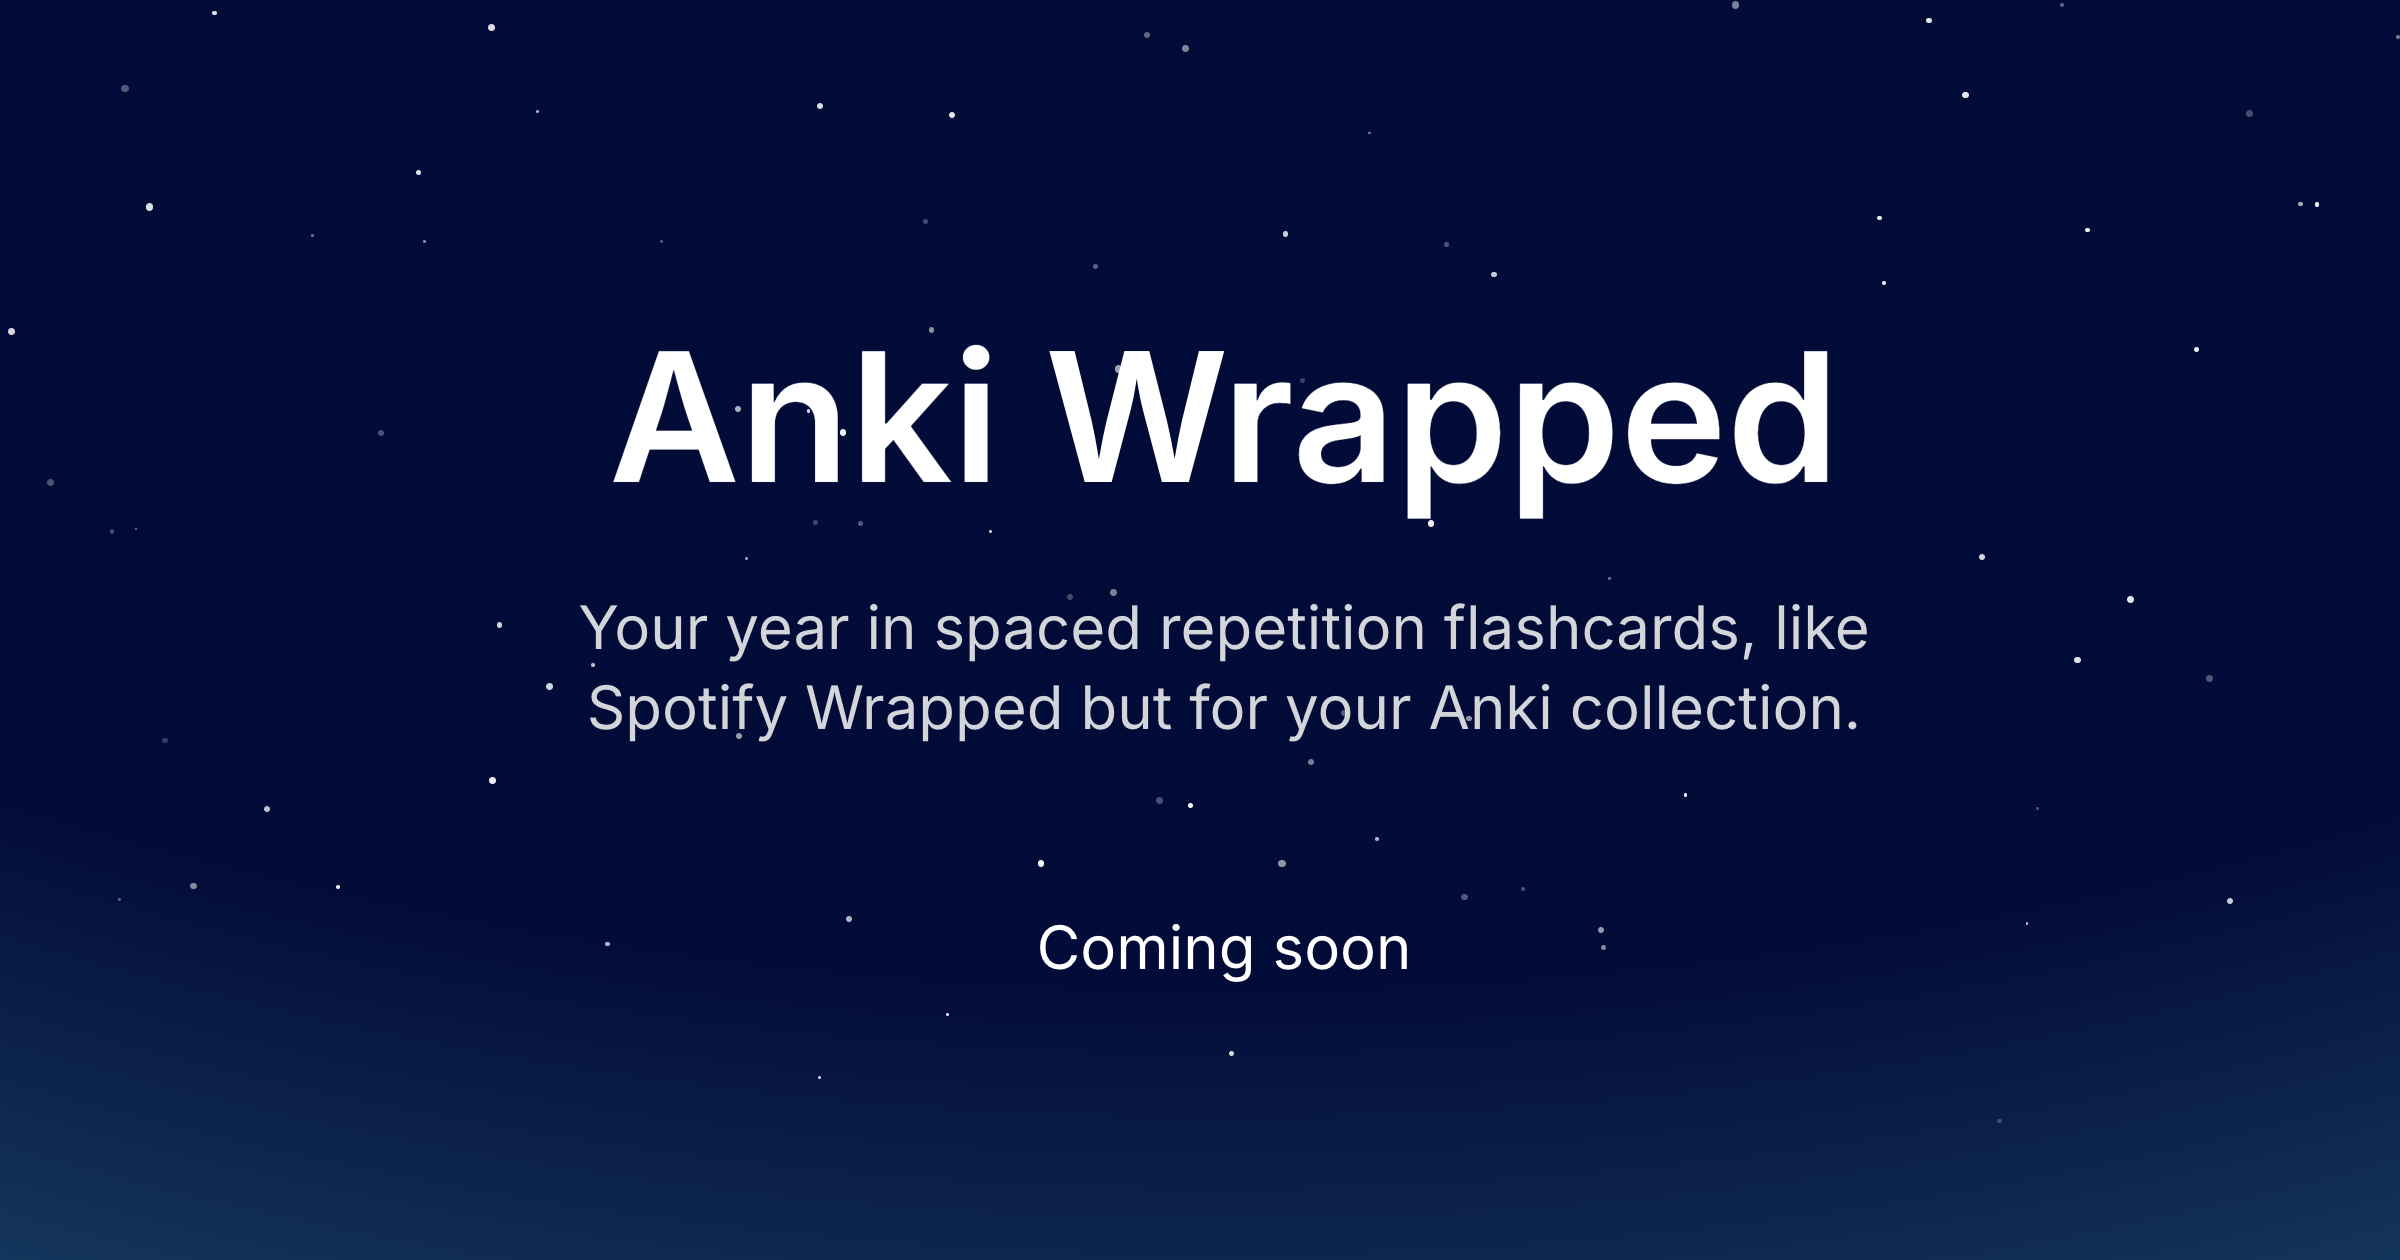
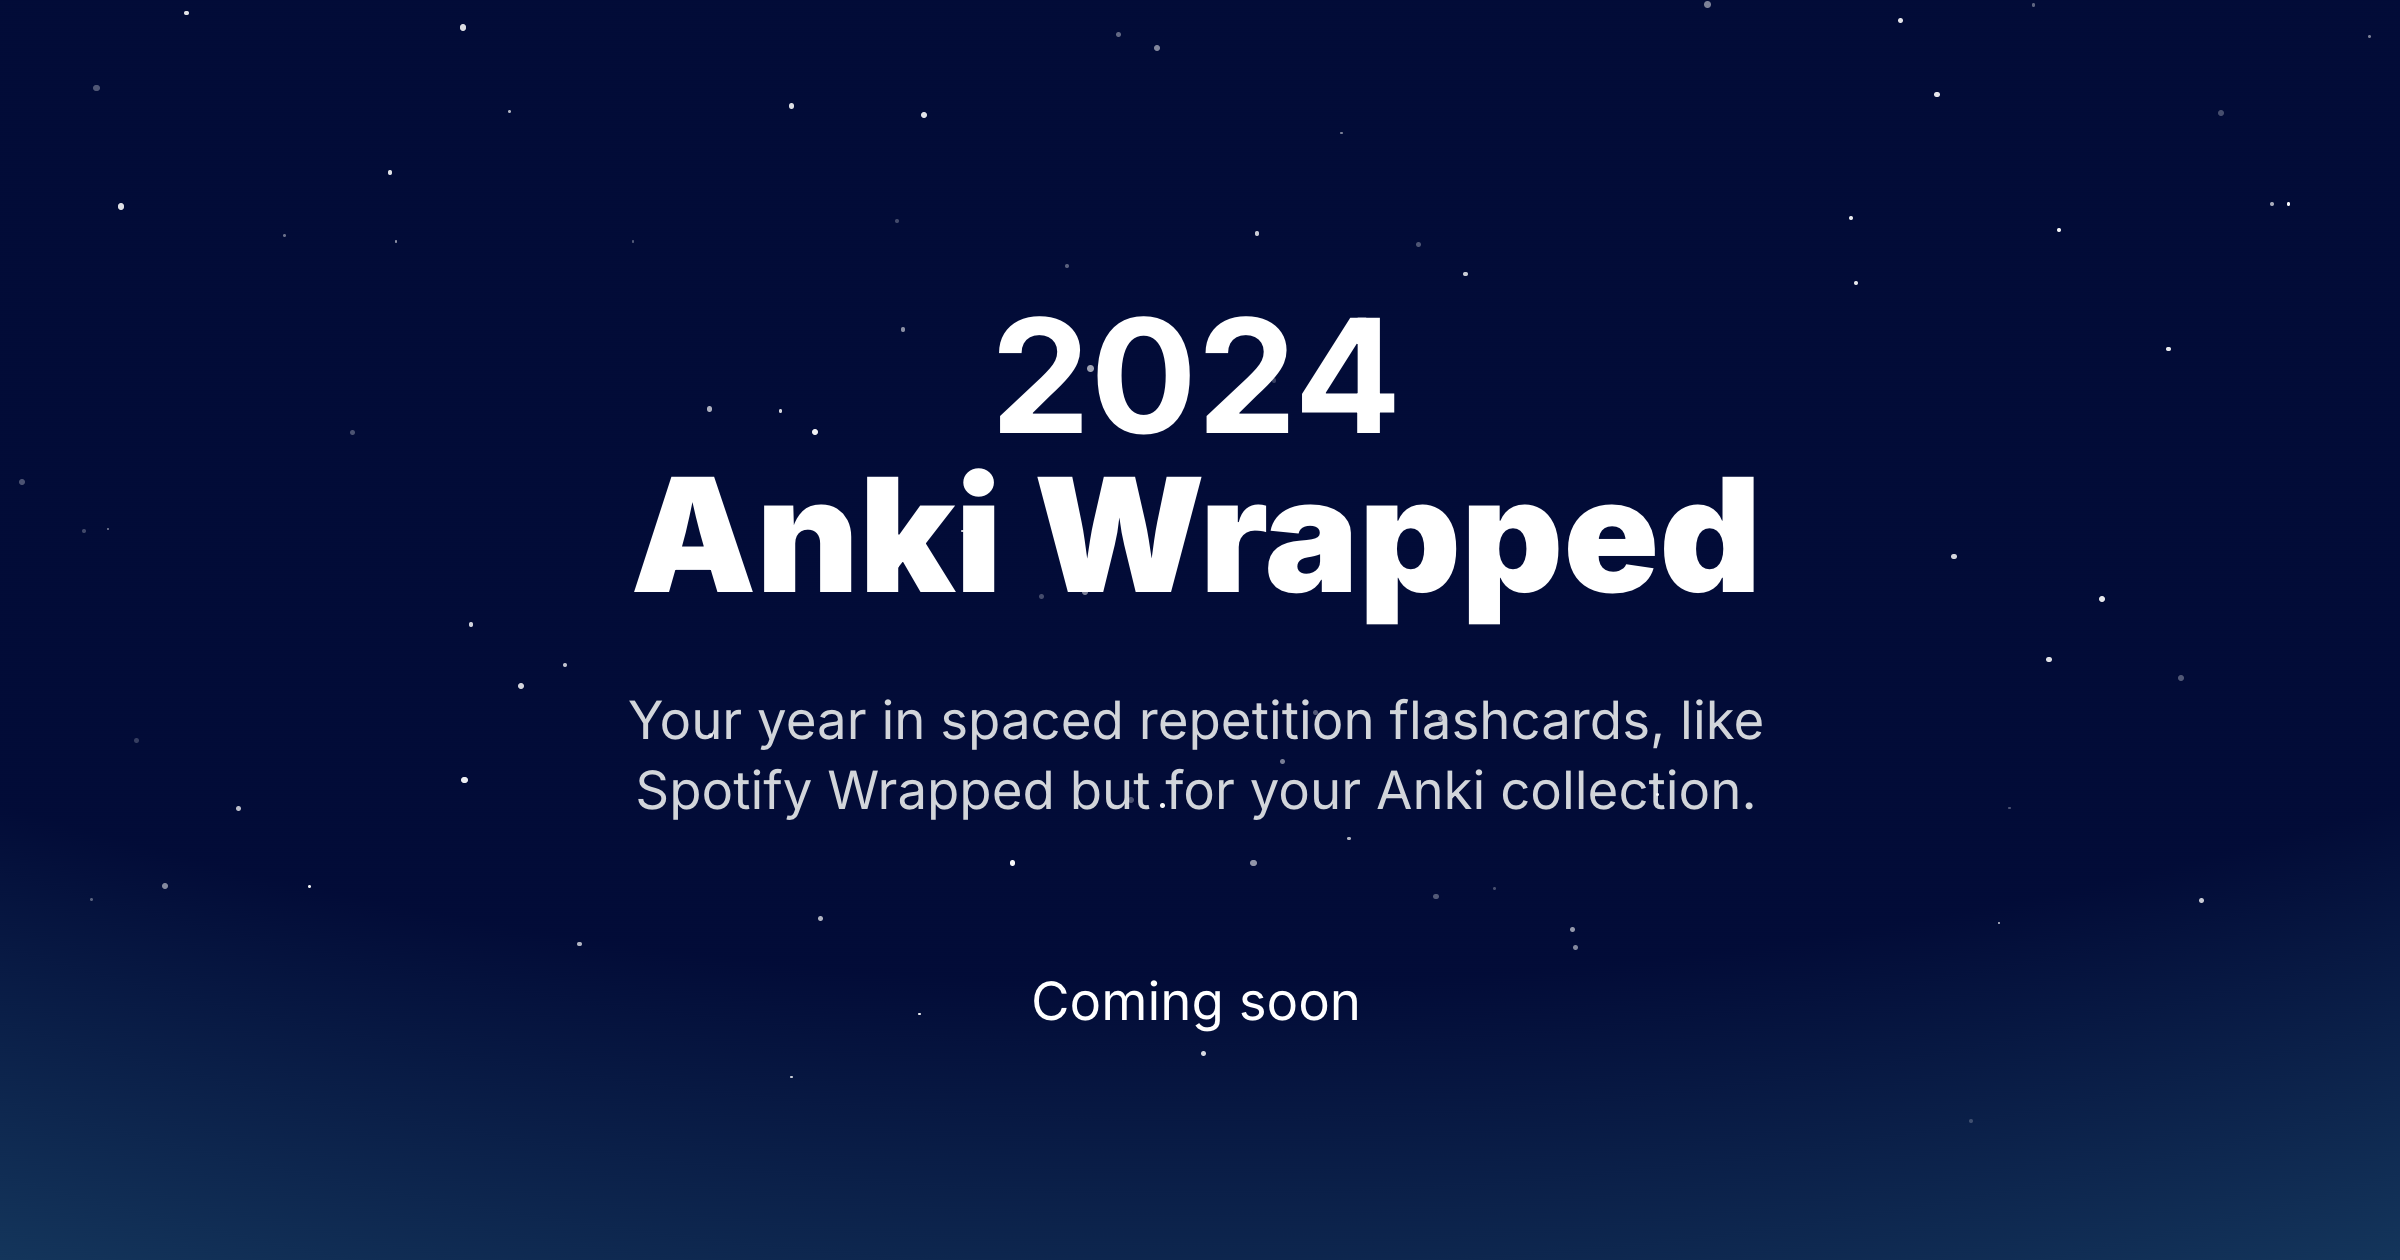
tweak landing page

Changed region(s): [[0.25, 0.2476, 0.7812, 0.5881], [0.25, 0.619, 0.7188, 0.65], [0.4375, 0.7429, 0.5938, 0.8357]]

diff --git a/src/routes/+page.svelte b/src/routes/+page.svelte
@@ -1,12 +1,24 @@
 <svelte:head>
-	<meta name="title" content="Anki Wrapped: Your Year in Spaced Repetition Flashcards" />
+	<title>2024 Anki Wrapped</title>
+
+	<!-- SEO Meta Tags -->
+	<meta name="title" content="2024 Anki Wrapped: Your Year in Spaced Repetition Flashcards" />
 	<meta
 		name="description"
 		content="Anki Wrapped is like Spotify Wrapped, but for your Anki flashcard collection. Discover fun stats about your learning habits with spaced repetition."
 	/>
+	<meta
+		name="keywords"
+		content="Anki Wrapped, 2024, Anki spaced repetition flashcards, spaced repetition flashcard stats, Anki year in review, Anki collection analytics, Rember"
+	/>
+	<meta name="robots" content="index, follow" />
+	<meta name="author" content="Rember Team" />
 
 	<!-- Open Graph Meta Tags -->
-	<meta property="og:title" content="Anki Wrapped: Your Year in Spaced Repetition Flashcards" />
+	<meta
+		property="og:title"
+		content="2024 Anki Wrapped: Your Year in Spaced Repetition Flashcards"
+	/>
 	<meta
 		property="og:description"
 		content="Anki Wrapped is like Spotify Wrapped, but for your Anki flashcard collection. Discover fun stats about your learning habits with spaced repetition."
@@ -18,26 +30,23 @@
 	<meta property="og:locale" content="en_US" />
 
 	<!-- Twitter Meta Tags -->
-	<meta name="twitter:title" content="Anki Wrapped: Your Year in Spaced Repetition Flashcards" />
+	<meta
+		name="twitter:title"
+		content="2024 Anki Wrapped: Your Year in Spaced Repetition Flashcards"
+	/>
 	<meta
 		name="twitter:description"
 		content="Anki Wrapped is like Spotify Wrapped, but for your Anki flashcard collection. Discover fun stats about your learning habits with spaced repetition."
 	/>
 	<meta name="twitter:image" content="https://anki-wrapped.com/images/preview.png" />
 	<meta name="twitter:card" content="summary_large_image" />
-
-	<!-- SEO Meta Tags -->
-	<meta
-		name="keywords"
-		content="Anki Wrapped, spaced repetition, Anki flashcards, year in review, Anki stats, flashcard stats, Rember, Anki collection"
-	/>
-	<meta name="robots" content="index, follow" />
-	<meta name="author" content="Rember Team" />
 </svelte:head>
 
 <div class="flex h-full flex-col items-center">
 	<div class="flex max-w-[36rem] flex-1 flex-col justify-center gap-8 px-4">
-		<h1 class="text-center text-7xl font-semibold text-white">Anki Wrapped</h1>
+		<h1 class="text-center text-7xl font-black text-white">
+			<span class="font-bold">2024</span><br />Anki Wrapped
+		</h1>
 		<p class="text-center text-2xl text-gray-300">
 			Your year in spaced repetition flashcards, like Spotify Wrapped but for your Anki collection.
 		</p>
@@ -49,11 +58,13 @@
 	>
 		<a
 			href="https://rember.com"
+			target="_blank"
+			rel="noopener noreferrer"
 			class="flex items-center gap-2 rounded-full border border-gray-200 border-opacity-30 bg-gray-200 bg-opacity-60 px-4 py-2"
 		>
 			<div class="font-semibold">Built by the team behind</div>
 			<enhanced:img src="$lib/assets/rember-logo-text.png" class="mb-[0.39rem] w-14" alt="Rember" />
 		</a>
-		<div class="opacity-60">This tool is not affiliated with or endorsed by Anki</div>
+		<div class="opacity-60">This tool is not affiliated with or endorsed by Anki.</div>
 	</div>
 </div>
